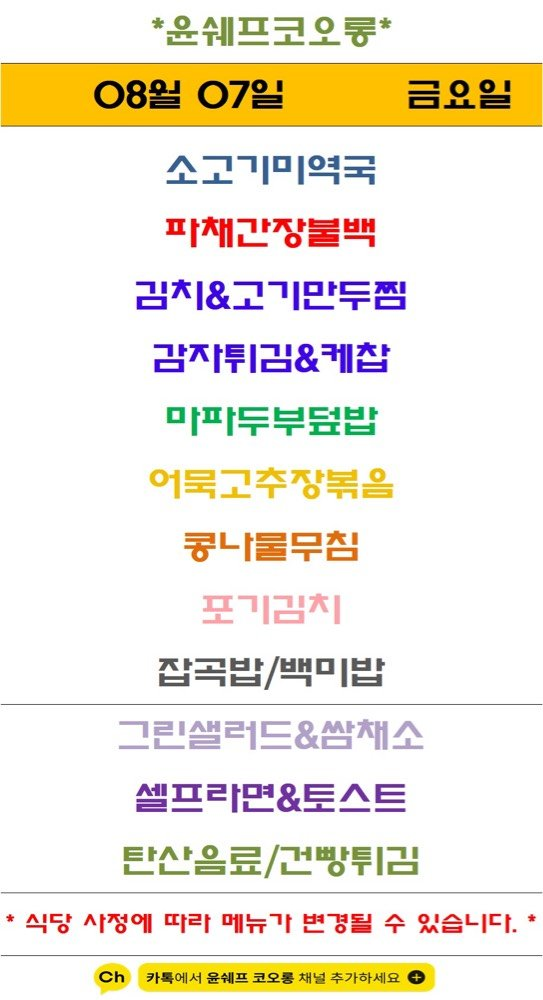
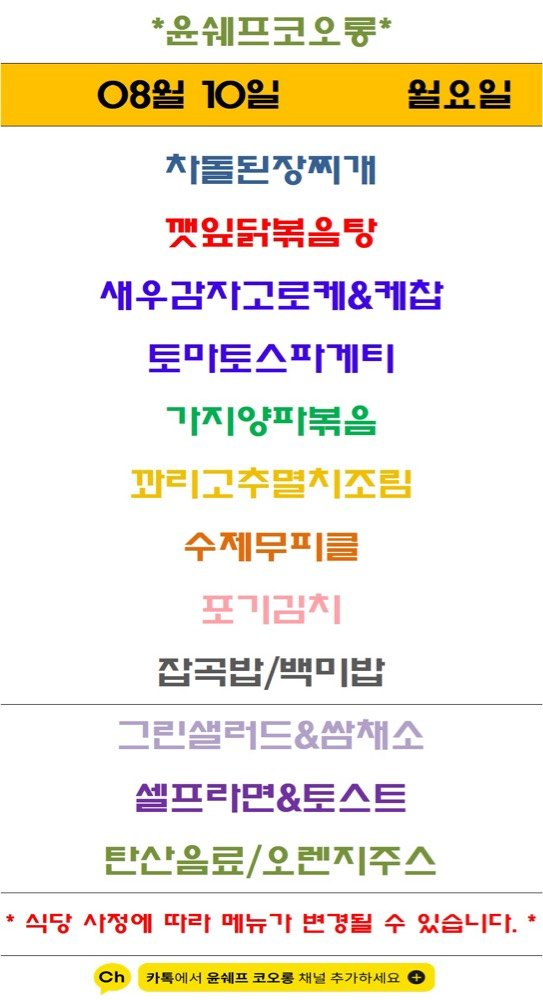
Update menu board assets

diff --git a/guro-menu/index.html b/guro-menu/index.html
@@ -32,7 +32,7 @@
   </header>
   <section class="meta">
     <div><small>기준 날짜</small><strong>2026년 8월 10일 월요일</strong></div>
-    <div><small>최종 갱신</small><strong>2026-08-10 09:04:26</strong></div>
+    <div><small>최종 갱신</small><strong>2026-08-10 09:13:34</strong></div>
     <div><small>등록 식당</small><strong>5개</strong></div>
   </section>
   <div class="notice">공개 카카오 채널의 메뉴 이미지를 자동 수집하고 OCR로 정리합니다. 텍스트에 오타가 있을 수 있으니 식단 이미지를 함께 확인해 주세요.</div>
@@ -104,7 +104,7 @@
         </div>
         <img class="menu-image" src="./images/yoon-chef-kolon.png" alt="윤쉐프 코오롱 식단 이미지" loading="lazy">
         <p class="message">최신 공개 식단 이미지의 텍스트입니다. 날짜는 원본 이미지를 확인해 주세요.</p>
-        <ul><li>소고기미역국</li><li>파재관장불백</li><li>러지&amp;고기만두찜</li><li>라자튀김&amp;케잡</li><li>마파두부던밥</li><li>콩나물무침</li><li>잡곡밥/백미밥</li><li>그린샐러드&amp;쌈재소</li><li>셀프라면&amp;토스트</li><li>탄산음료/건빵튀김</li><li>* 식당 APSO 따라 메뉴가 Som 수 있습니다. *</li></ul>
+        <ul><li>자돌된장찌개</li><li>새우감자고로케&amp;케잡</li><li>토마토스파게티</li><li>가지양파볶음</li><li>수제무피클</li><li>잡곡밥/백미밥</li><li>그린샐러드&amp;쌈채소</li><li>셀프라면&amp;토스트</li><li>탄산음료/오렌지주스</li></ul>
       </article>
   </section>
   <section class="seo" aria-label="검색 정보">한신IT타워 구내식당 자연푸드 구내식당 더이츠푸드 벽산더이룸 윤쉐프 코오롱 한신IT타워 벽산디지털밸리7차 대륭포스트타워1차 벽산디지털밸리1차 코오롱싸이언스밸리1차 서울 구로구 디지털로 272 한신IT타워 지하1층 서울 구로구 디지털로33길 50 벽산디지털밸리7차 지하1층 서울 구로구 디지털로 288 대륭포스트타워1차 지하1층 서울 구로구 디지털로27길 24 벽산디지털밸리1차 지하1층 서울 구로구 디지털로34길 43 코오롱싸이언스밸리1차 지하1층</section>

diff --git a/menu-today/index.html b/menu-today/index.html
@@ -209,7 +209,7 @@
 
     <section class="meta-bar">
       <div class="meta-card"><div class="meta-label">기준 날짜</div><div class="meta-value">2026년 8월 10일 월요일</div></div>
-      <div class="meta-card"><div class="meta-label">최종 가져온 시간</div><div class="meta-value">2026-08-10 09:04:12</div></div>
+      <div class="meta-card"><div class="meta-label">최종 가져온 시간</div><div class="meta-value">2026-08-10 09:13:23</div></div>
       <div class="meta-card"><div class="meta-label">확인 완료</div><div class="meta-value">9개 식당</div></div>
       <div class="meta-card"><div class="meta-label">준비중</div><div class="meta-value">3개 채널</div></div>
     </section>
